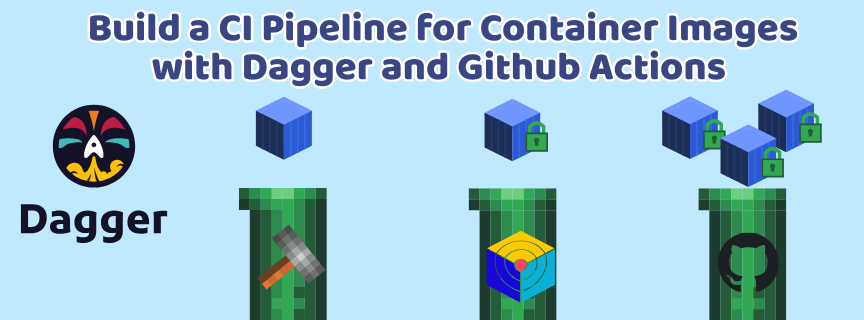
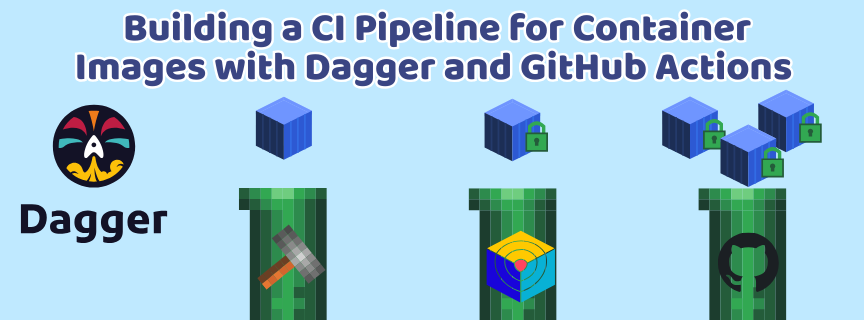
article: ci pipeline with dagger

Changed region(s): [[0.0625, 0.0312, 0.9375, 0.2812]]

diff --git a/content/posts/building_cicd_with_dagger_and_gh_actions/index.md b/content/posts/building_cicd_with_dagger_and_gh_actions/index.md
@@ -1,30 +1,28 @@
 ---
 title: "Building a CI Pipeline for Container Images with Dagger and GitHub Actions"
-pubDate: 2026-01-20
-Description: "There comes a time where a container image is needed, and with that a pipeline. Let's build our own with Dagger!"
+pubDate: 2026-02-08
+Description: "There comes a time when a container image is needed, and with that an automatic pipeline. Let's build our own with Dagger and Github Actions!"
 Categories: ["CI/CD", "Platform Engineering", "Containers"]
 Tags: ["CI/CD", "DevOps", "Containers", "Go"]
 cover: "gallery/cicd_dagger_cover.png"
 images:
   - "gallery/cicd_dagger_cover.png"
-mermaid: true
-draft: true
 ---
 
-Recently, I've been working on my homelab, and one thing that eventually becomes essential is having **reliable pipelines for building, scanning, and publishing container images**.
+Recently, I've been hacking away in my [homelab](https://kincodes.com/tags/homelab-series/), and when it came time to deploy my blog, one thing became essential: **having a reliable pipeline for building, scanning, and publishing container images**.
 Whether you're developing custom applications from scratch or creating hardened versions of existing images to strengthen their security posture, you need a robust build process you can trust.
 
-While there are plenty of GitHub Actions in the marketplace that can handle this, there's something uniquely powerful about owning a custom pipeline where you control every piece without drowning in YAML hell. Even better, what if you could **define your entire pipeline in code and test it locally without waiting for CI runners**? Enter [Dagger](https://dagger.io/). With Dagger, your local pipeline runs are identical to what executes in CI, giving you fast feedback loops and the confidence that what works on your machine will work in production.
+While there are plenty of [GitHub Actions in the marketplace](https://github.com/marketplace?query=build+and+push+docker+image&type=actions) that can handle this, there's something uniquely powerful about owning a custom pipeline where you control every piece without drowning in YAML hell abstraction. Even better, what if you could **define your entire pipeline in code and test it locally**? Enter [Dagger](https://dagger.io/). With Dagger, your local pipeline runs are identical to what executes in CI, giving you fast feedback loops to iterate on the CI without waiting for runners.
 
-In this guide, I'll walk you through setting up a complete pipeline that **builds a container image, scans it for security vulnerabilities, and publishes it to a registry of your choice**, all using Go!
+In this guide, I'll walk through setting up a complete pipeline that **builds a container image, scans it for security vulnerabilities, and publishes it to a registry of your choice**, all using Go!
 
 ## The Stage
 
-I wanted to have a container image for the blog that will be deployed on my tailnet via Argo CD. The app here is a simple static Hugo blog running on an nginx base.
+I wanted to have a container image for my blog that will be deployed on my tailnet via Argo CD. The app here is a simple static Hugo blog running on an nginx base.
 
-In order to have a container image to use for our Kubernetes deployment, we need to have a pipeline. Normally, this pipeline can be as many **n steps**
-as you deemed necessary. However, usually there are 3 fundamental steps that should always be present when creating the pipeline: **build, security scanning, and publish**.
-Let's explore how we can create this steps using the Dagger Go SDK.
+To create a container image for our Kubernetes deployment, we need to have a pipeline. Normally, this pipeline can be as many steps
+as you deemed necessary. However, usually there are 3 fundamental steps that are essential when creating a CI/CD pipeline: **build, security scanning, and publish**.
+Let's explore how we can create these steps using the Dagger Go SDK.
 
 ## Daggerizing the Pipeline
 
@@ -43,7 +41,7 @@ to choose any language from their [available sdks](https://docs.dagger.io/gettin
 
 ### Build CI
 
-Let's start with the build step. In here we generally want to specify the source of our project, the platform that we building our container image for, and
+Let's start with the build step. Here, we generally want to specify the source of our project, the platform that we are building our container image for, and
 the tags we want to apply.
 
 ```go
@@ -94,16 +92,16 @@ Note that I pass in the build arguments slice to our container such that we appl
 
 ![Trivy logo](gallery/trivy.svg)
 
-Now that we have a way to return our container image, we want to make sure that it does not contain any critical or high vunerabilities. This step is often overlooked,
-but in this modern era of **AI generated code**, and with [big players in image hardening going close source](https://thenewstack.io/broadcom-ends-free-bitnami-images-forcing-users-to-find-alternatives/),
+Now that we have a way to return our container image, we want to make sure that it does not contain any critical or high vulnerabilities. This step is often overlooked,
+but in this modern era of **AI-generated code**, and with [big players in image hardening going closed source](https://thenewstack.io/broadcom-ends-free-bitnami-images-forcing-users-to-find-alternatives/),
 we certainly want to be more conscious of having a **security first posture**.
 
 We'll use [trivy](https://trivy.dev/), a fantastic security scanner to find CVEs and misconfigurations in our container image. In the case we detect a critical or high
 vunerability in our image, we will halt the pipeline by returning an error.
 
 ```go
-// Scan Image Built for Vunerabilities
-func (m *BlogCi) ScanVunerabilities(ctx context.Context, ctr *dagger.Container) error {
+// Scan Image Built for Vulnerabilities
+func (m *BlogCi) ScanVulnerabilities(ctx context.Context, ctr *dagger.Container) error {
 
 	tarball := ctr.AsTarball()
 
@@ -123,7 +121,7 @@ func (m *BlogCi) ScanVunerabilities(ctx context.Context, ctr *dagger.Container) 
 		return fmt.Errorf("critical/high vunerabilities detected: %s", err.Error())
 	}
 
-	fmt.Printf("Trivy scan success - no critical or high vunerabilites found\n%s", output)
+	fmt.Printf("Trivy scan success - no critical or high vulnerabilities found\n%s", output)
 	return nil
 }
 
@@ -165,7 +163,7 @@ func (m *BlogCi) PublishImage(ctx context.Context,
 	platformVariants := make([]*dagger.Container, 0, len(platforms))
 	for _, platform := range platforms {
 		ctr := m.BuildFromDockerfile(source, platform, ImageTags{Version: version, SHA: sha}, url)
-		if err := m.ScanVunerabilities(ctx, ctr); err != nil {
+		if err := m.ScanVulnerabilities(ctx, ctr); err != nil {
 			return "", err
 		}
 		platformVariants = append(platformVariants, ctr)
@@ -184,11 +182,11 @@ func (m *BlogCi) PublishImage(ctx context.Context,
 }
 ```
 
-The logic from line 38-42 help us test the pipeline locally by publishing the container image to [ttl.sh](https://ttl.sh/),
-and if we provide a different registry such as **ghcr.io** or **dockerhub**, it will apply the registry auth. This allow us to have faster feedback loops of the CI
+The logic from **lines 38-42** helps us test the pipeline locally by publishing the container image to [ttl.sh](https://ttl.sh/),
+and if we provide a different registry such as **ghcr.io** or **dockerhub**, it will apply the registry auth. This allows us to have faster feedback loops of the CI
 without having to go through the github runners.
 
-### Finishing the pipeline with Github Actions
+### Finishing the pipeline with GitHub Actions
 
 Lastly, we can wrap our dagger call and have a simple github action that will run when we publish a tag as follows:
 
@@ -229,5 +227,5 @@ jobs:
           dagger call publish-image --registry=ghcr.io --name=$NAME --version=$SHA_TAG --sha=$SHA_TAG --base-url=$BASE_URL --username=$USERNAME --password=env:PASSWORD # sha```
 ````
 
-The action will trigger our full dagger pipeline every time I create a new tag. Now, with the pipeline set I can push new versions of my blog with a tag, and I can
+The action will trigger our full Dagger pipeline every time I create a new tag. Now, with the pipeline set I can push new versions of my blog with a tag, and I can
 use the generated container image in my kubernetes deployments, very cool!
